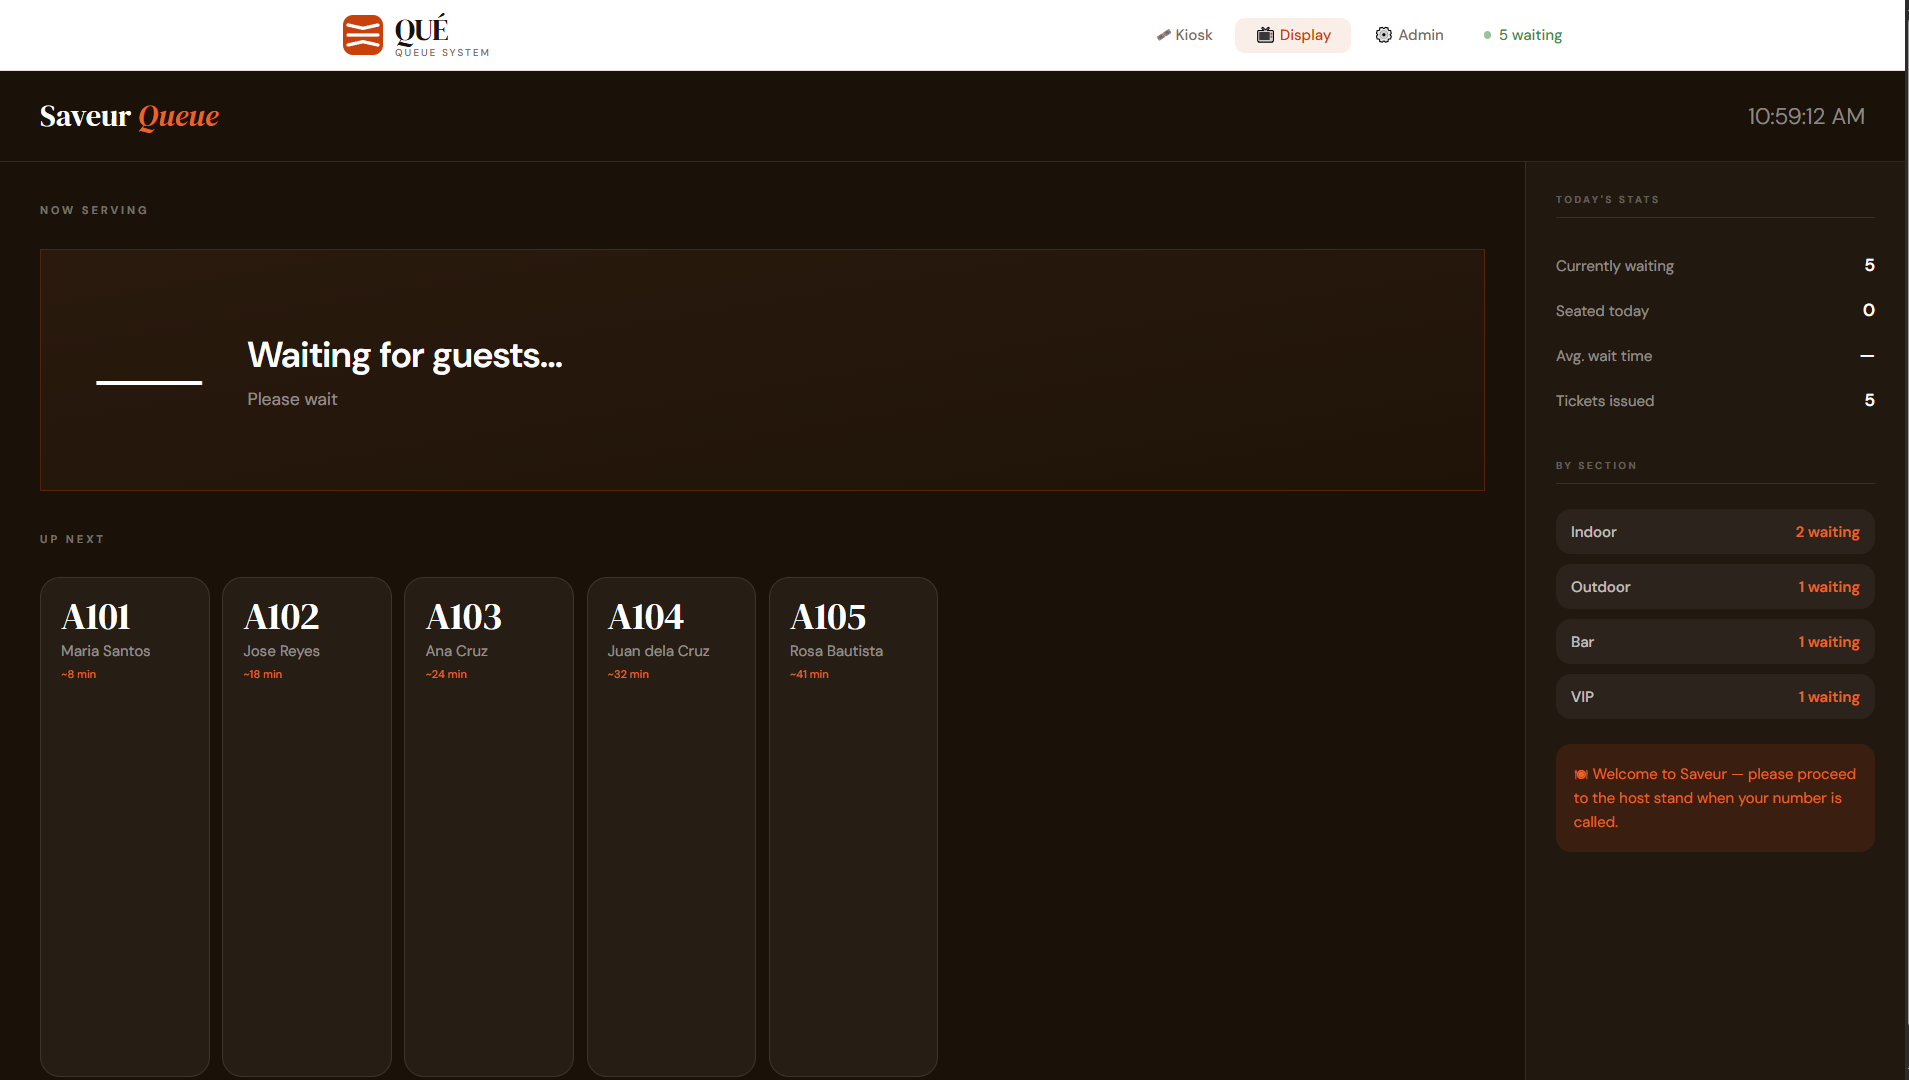
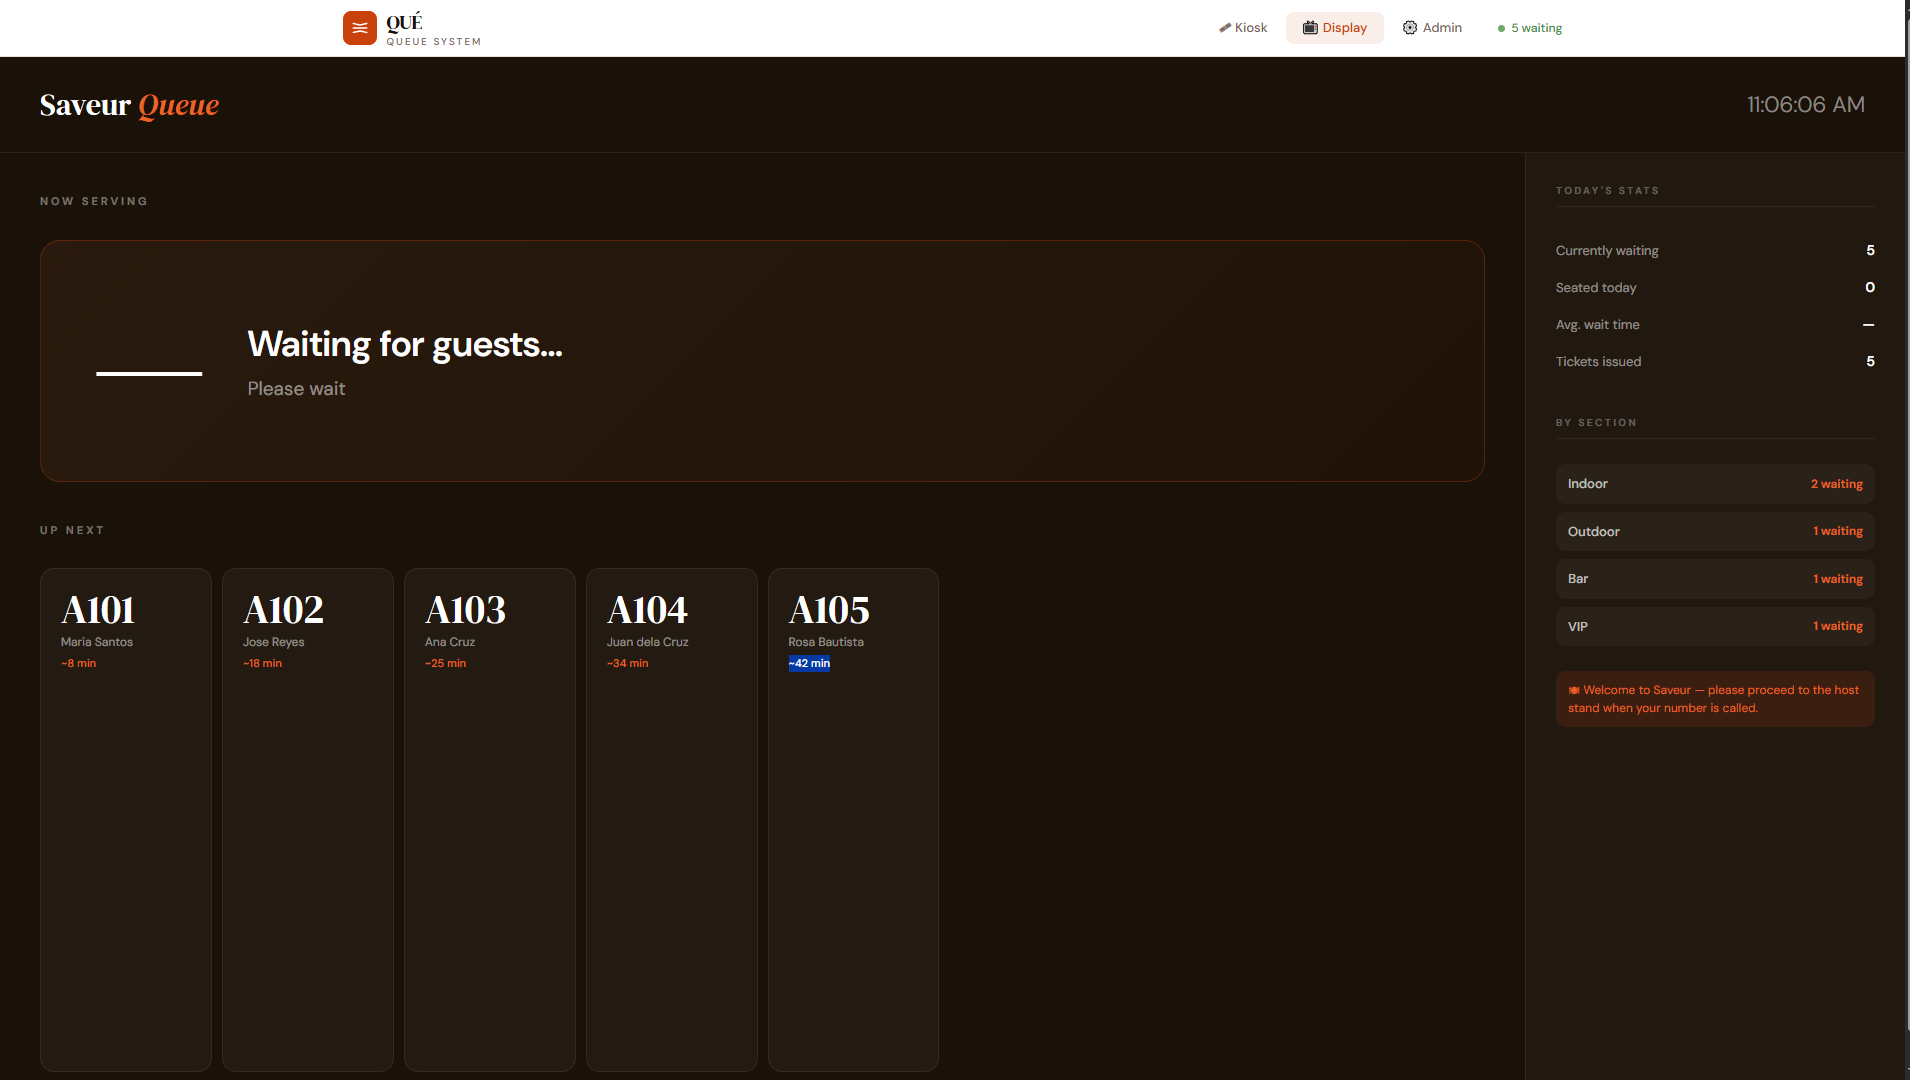
Modify screenshots

diff --git a/README.md b/README.md
@@ -154,4 +154,4 @@ http://localhost:3000
 
 ## 📄 License
 
-This project is licensed under the MIT License.
+This project is licensed under the [MIT License](LICENSE).
